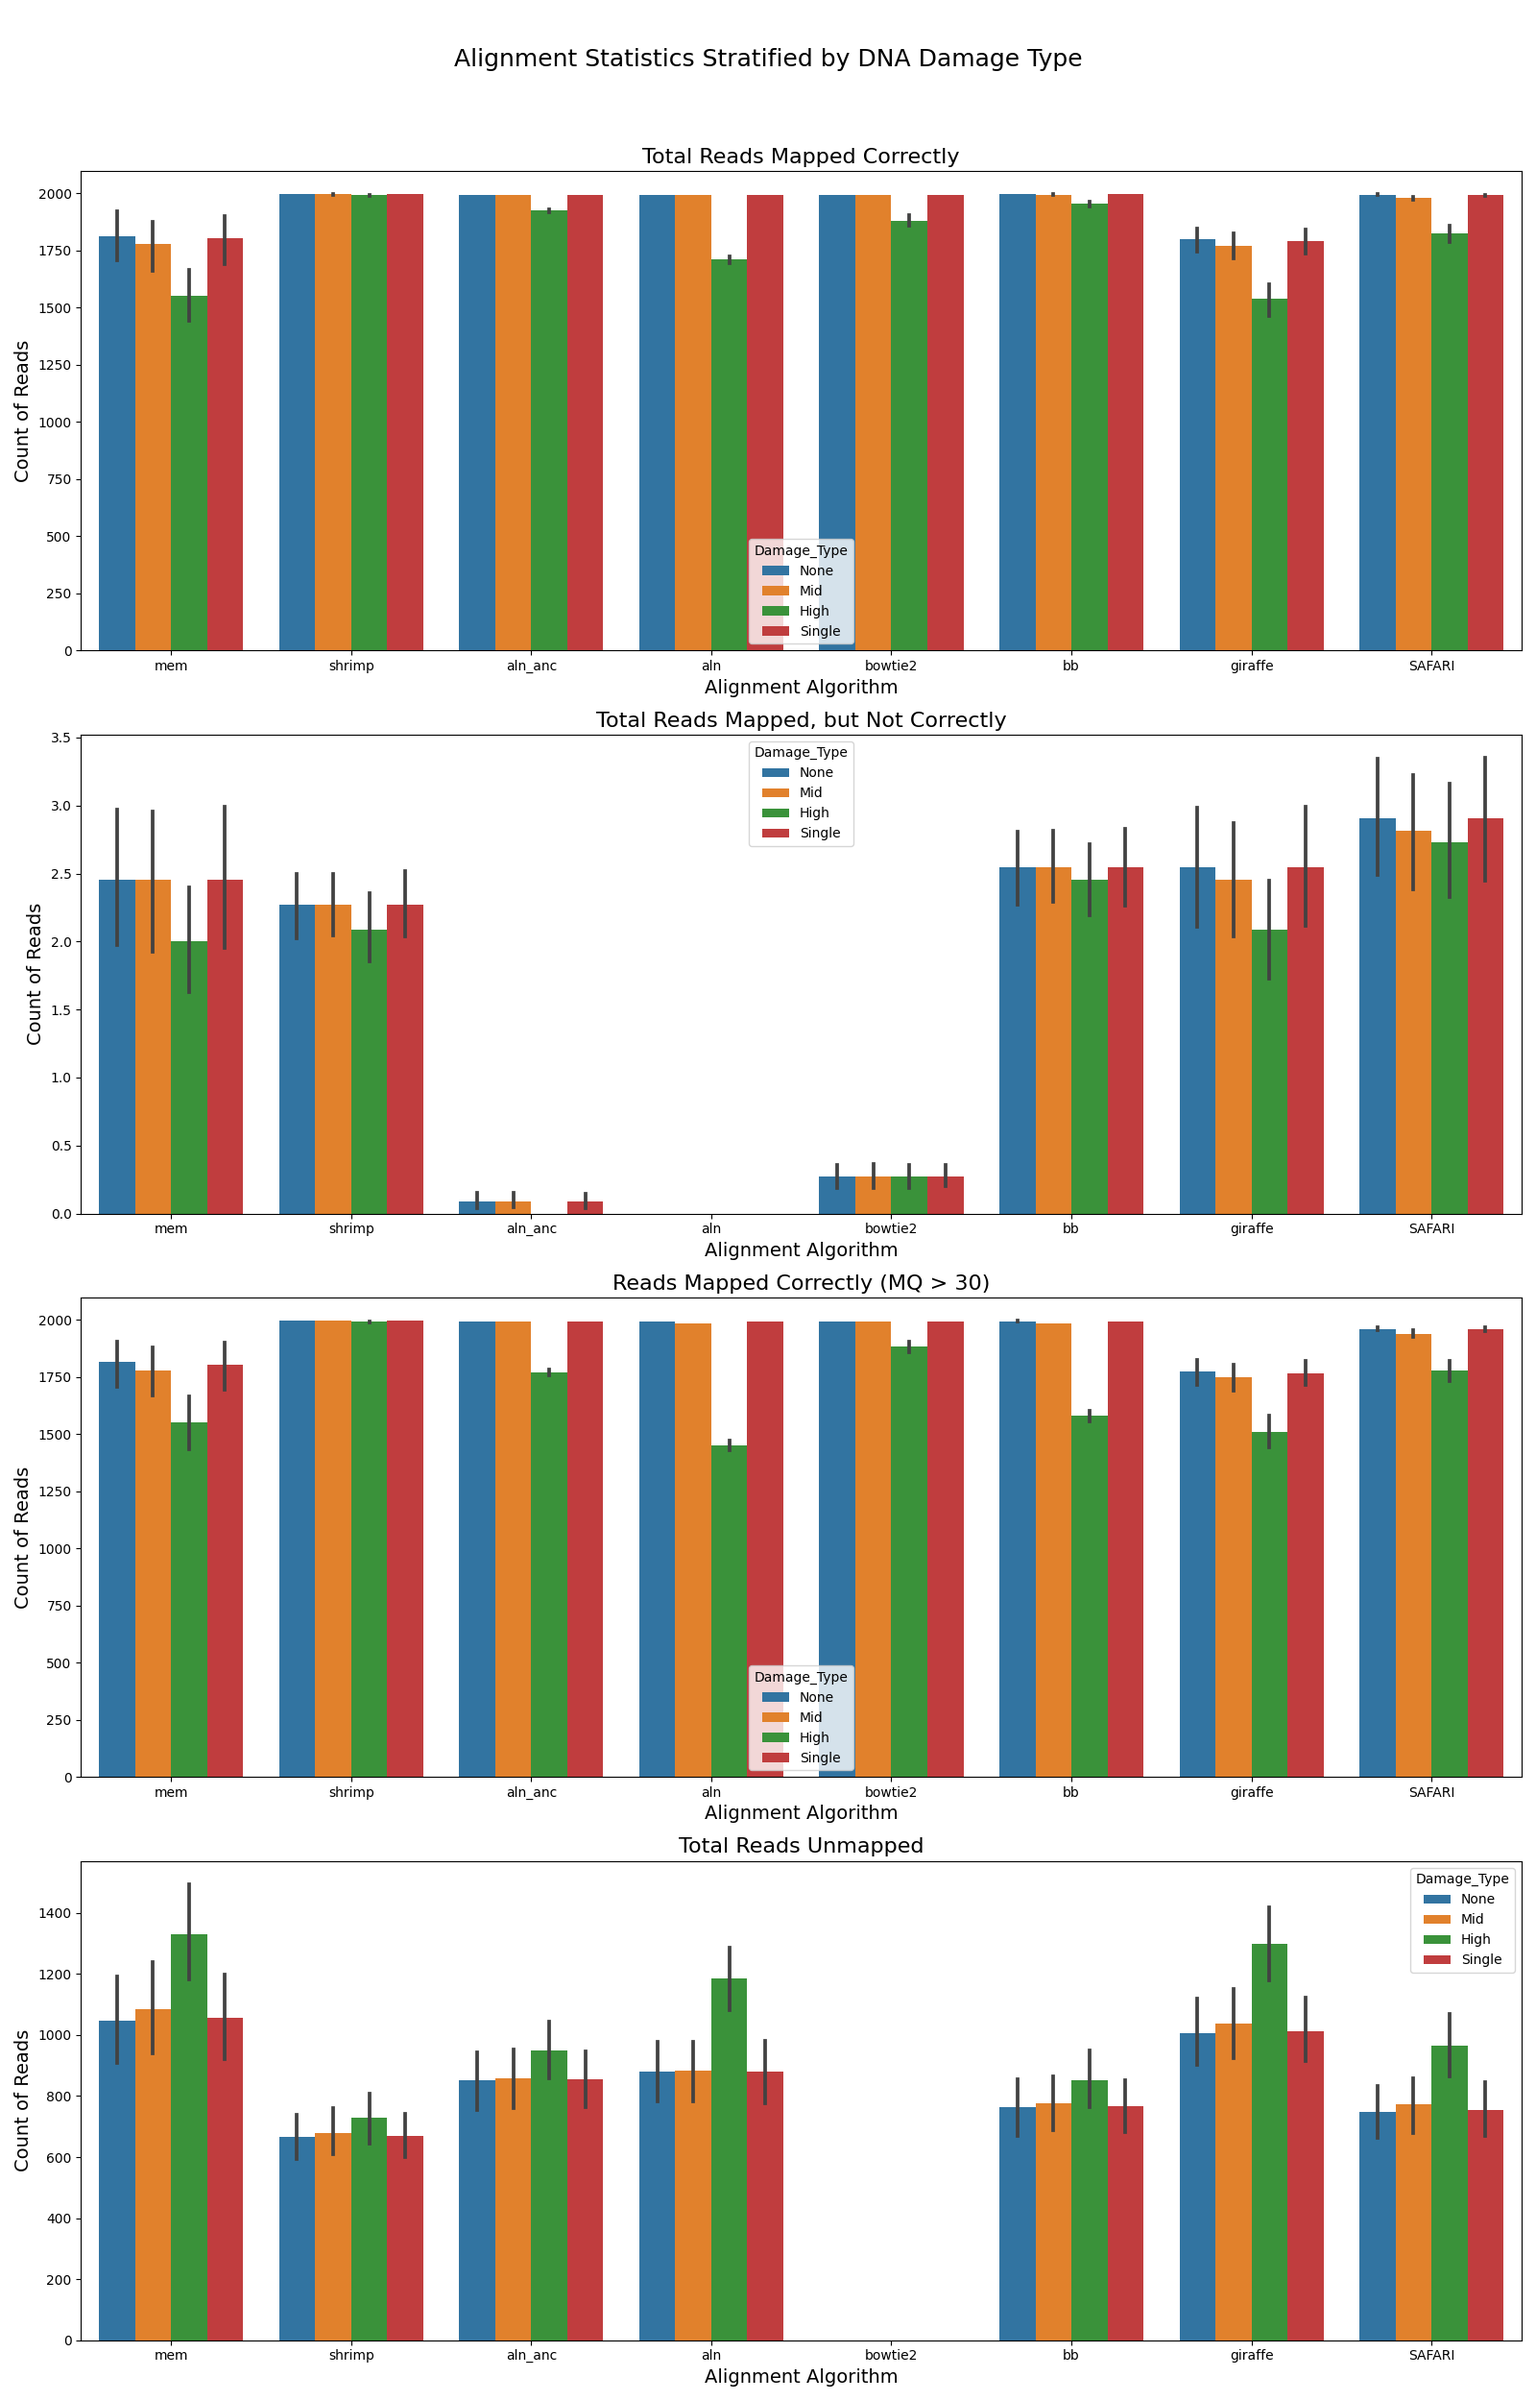
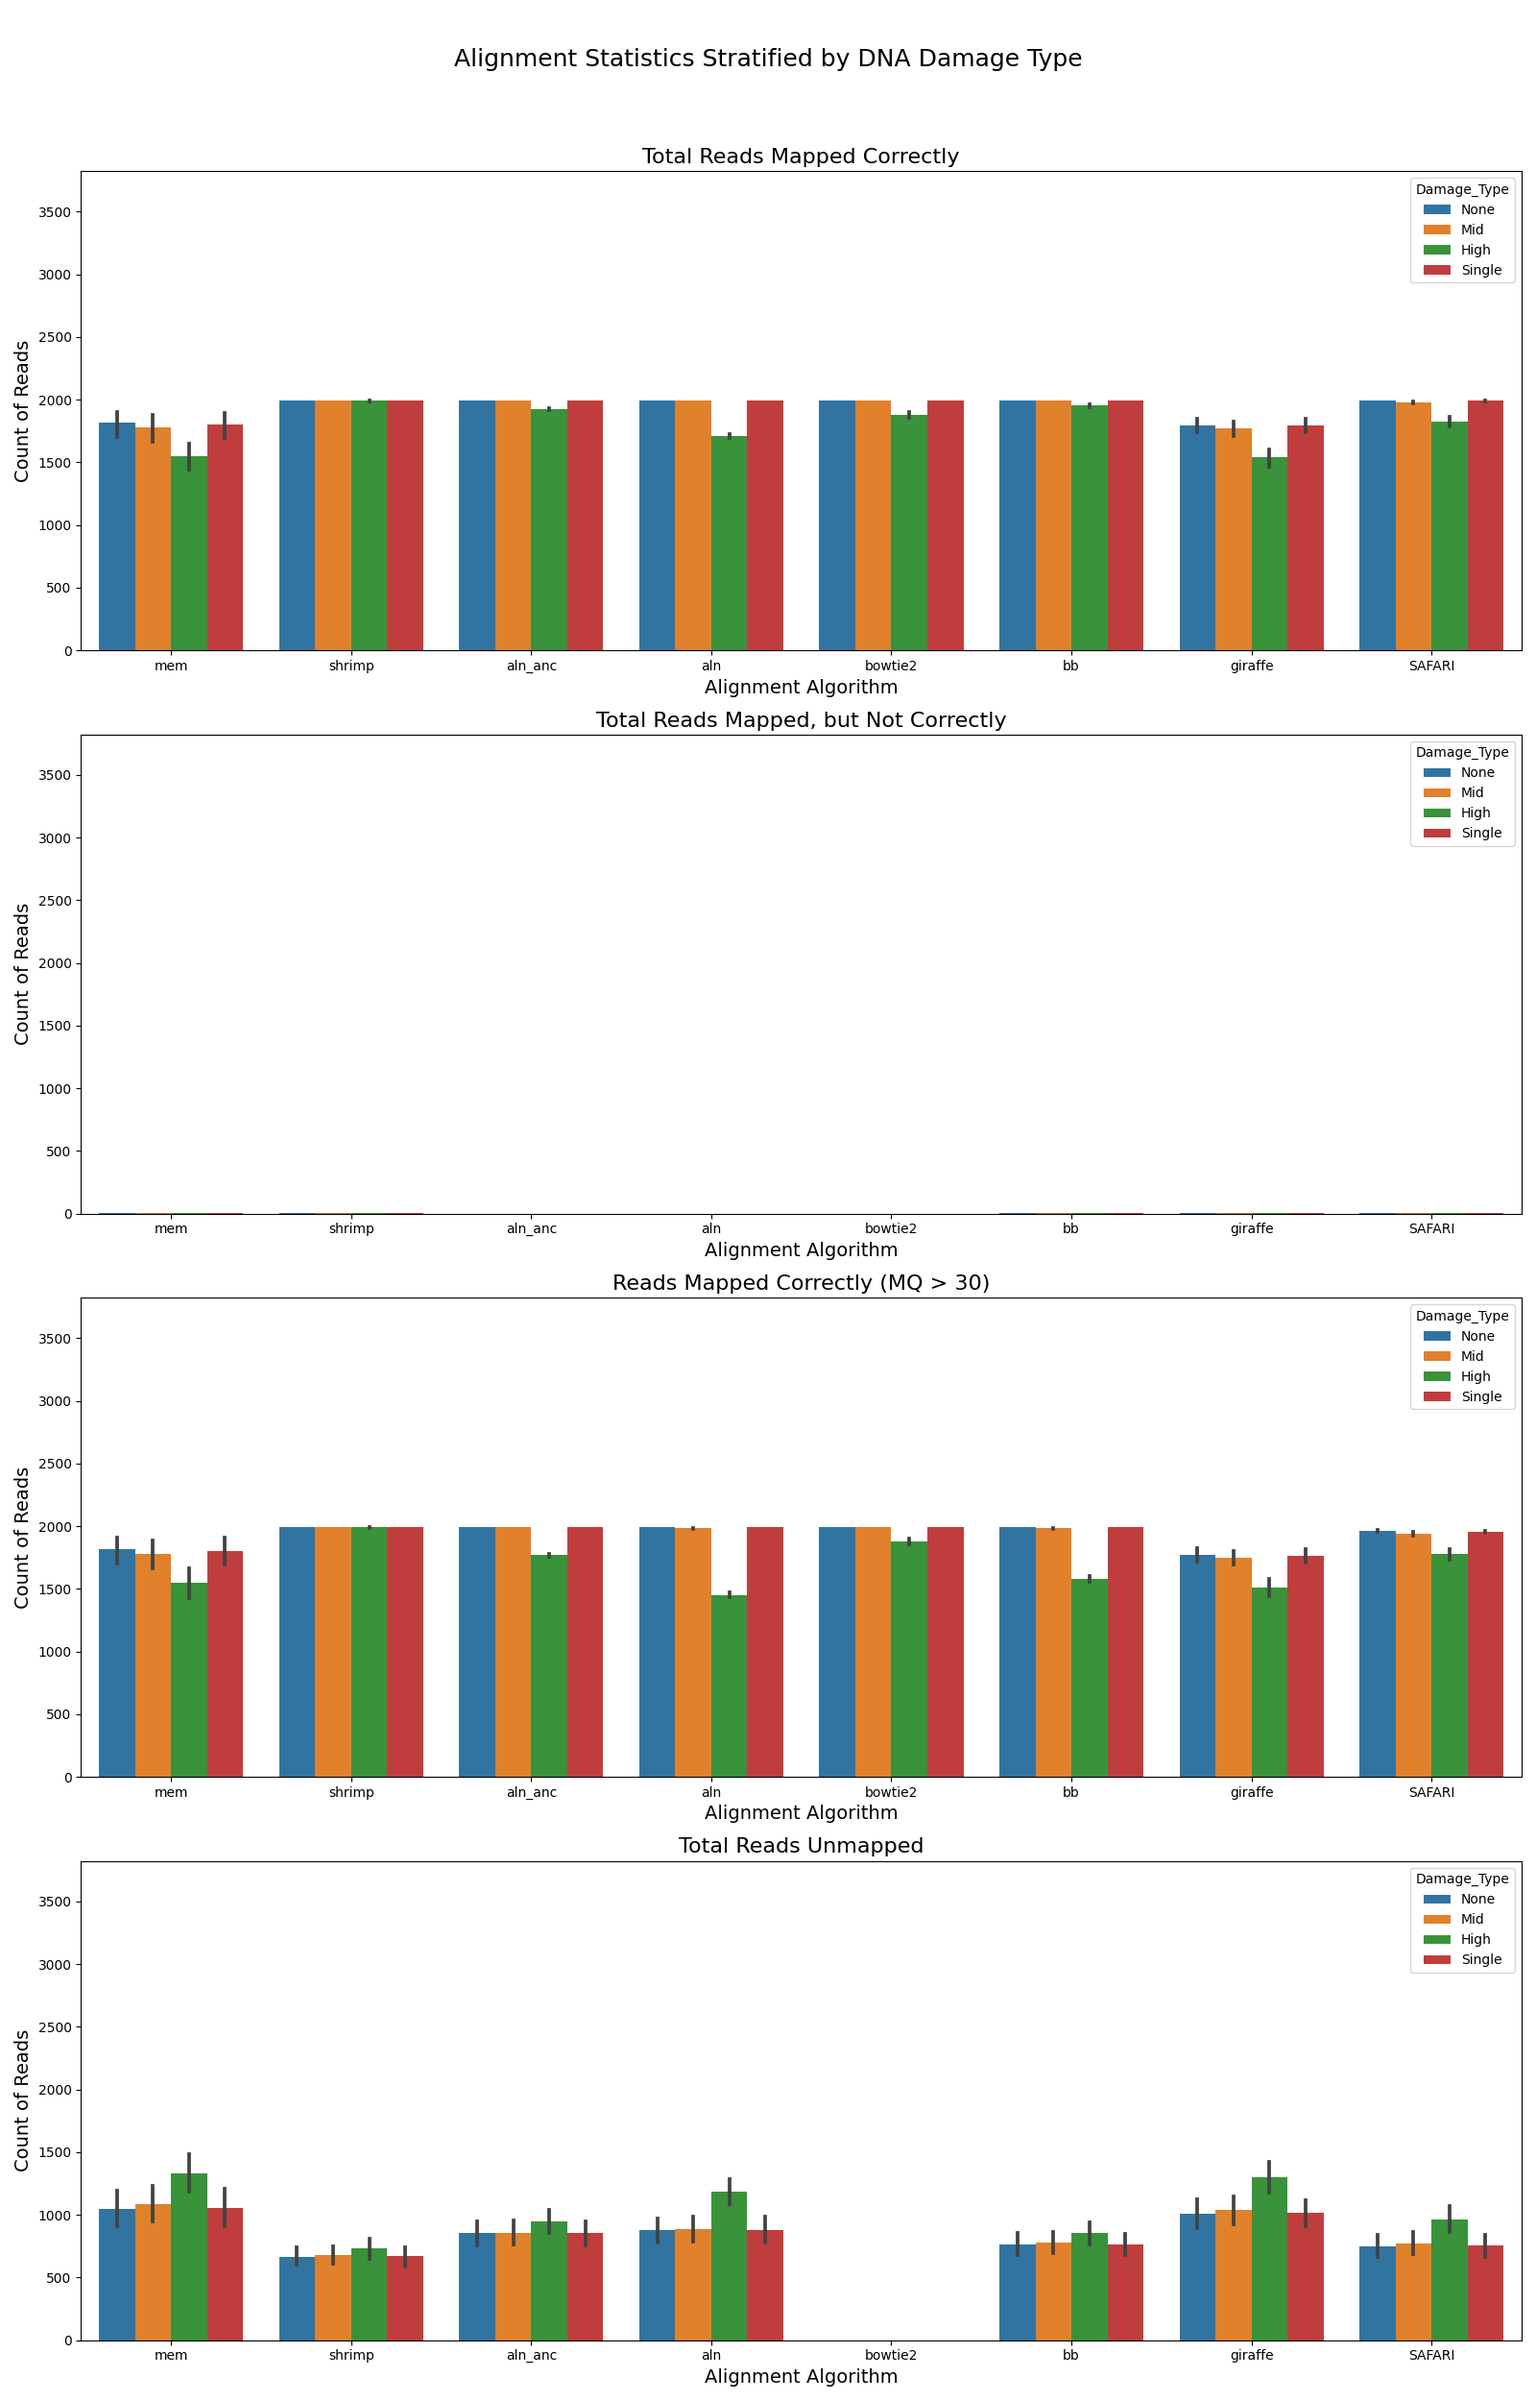
Update

diff --git a/linear_experiment/human_mito/linear_benchmark.py b/linear_experiment/human_mito/linear_benchmark.py
@@ -4,7 +4,7 @@ import pandas as pd
 
 def create_new_plot(df, file_name, title):
     # Check if all required columns are present
-    required_columns = ['Damage_Type', 'Aligner_Name', 'Mapped_to_MT', 'Mapped_to_MT_Correct_Location', 'Mapped_to_MT_Correct_Location_MQ>30', 'Unmapped_Reads']
+    required_columns = ['Damage_Type', 'Aligner_Name', 'Mapped_to_MT', 'Mapped_to_MT_Correct_Location', 'Mapped_to_MT_Correct_Location_MQ>30', 'Unmapped_Reads', 'Total_Reads']
     assert set(required_columns).issubset(df.columns), "Not all required columns are present in the dataframe."
 
     custom_order_df = df.copy()
@@ -13,6 +13,9 @@ def create_new_plot(df, file_name, title):
     custom_order_df['Mapped_NOT_Correctly'] = custom_order_df['Mapped_to_MT'] - custom_order_df['Mapped_to_MT_Correct_Location']
 
     # Handle damage type order and renaming
+    damage_type_order = ['none', 'dmid', 'dhigh', 'single']
+    damage_type_rename = {'none': 'None', 'dmid': 'Mid', 'dhigh': 'High', 'single': 'Single'}
+
     custom_order_df['Damage_Type'] = custom_order_df['Damage_Type'].astype('category')
     custom_order_df['Damage_Type'] = custom_order_df['Damage_Type'].cat.reorder_categories(damage_type_order, ordered=True)
     custom_order_df['Damage_Type'] = custom_order_df['Damage_Type'].map(damage_type_rename)
@@ -27,6 +30,9 @@ def create_new_plot(df, file_name, title):
         ("Reads Mapped Correctly (MQ > 30)", "Mapped_to_MT_Correct_Location_MQ>30"),
         ("Total Reads Unmapped", "Unmapped_Reads")
     ]
+
+    # Determine the y-axis limit for all subplots
+    ymax = custom_order_df['Total_Reads'].max()
 
     fig, axes = plt.subplots(len(questions_columns), 1, figsize=(16, 25))
     fig.suptitle(title, fontsize=18, color='black')
@@ -46,22 +52,18 @@ def create_new_plot(df, file_name, title):
         ax.set_title(label, fontsize=16, color='black')
         ax.set_xlabel("Alignment Algorithm", fontsize=14, color='black')
         ax.set_ylabel("Count of Reads", fontsize=14, color='black')
+        ax.set_ylim(0, ymax)  # Set y-axis limit for all subplots
 
     plt.tight_layout(rect=[0, 0, 1, 0.96])
     plt.savefig(file_name)
 
-
-# Load the new data
+# Load the data
 file_path = 'alignment_stats.csv'
-df_new = pd.read_csv(file_path)
+df = pd.read_csv(file_path)
 
-# Check if the dataframe is empty
-assert not df_new.empty, "The dataframe is empty."
-
-# Customize the Damage_Type levels and their order
-damage_type_order = ['none', 'dmid', 'dhigh', 'single']
-damage_type_rename = {'none': 'None', 'dmid': 'Mid', 'dhigh': 'High', 'single': 'Single'}
+# Assert if the dataframe is empty
+assert not df.empty, "The dataframe is empty."
 
 # Create the new plot
-create_new_plot(df_new, "linear_benchmark.png", "Alignment Statistics Stratified by DNA Damage Type")
+create_new_plot(df, "linear_benchmark.png", "Alignment Statistics Stratified by DNA Damage Type")
 
